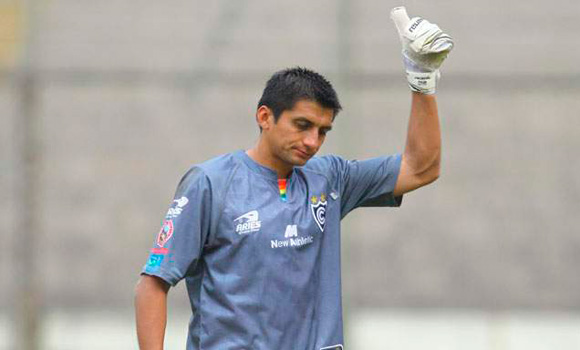
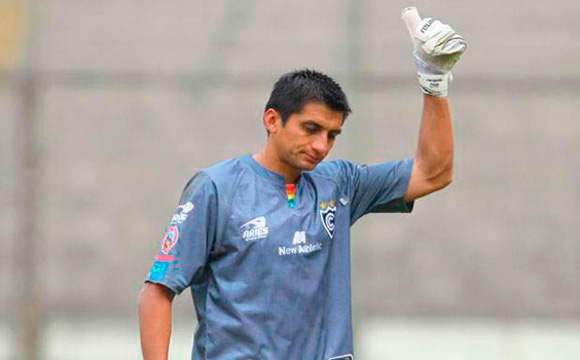
cambio de imagenes de slider

Changed region(s): [[0.2172, 0.0, 0.8069, 1.0]]

diff --git a/css/estilos.css b/css/estilos.css
@@ -1,2 +1,2 @@
 /* PICHLING REPRESENTACIONES */
-html,button,input,select,textarea{color:#222}h1,h2,h3,h4,h5,h6{margin:0;padding:0}a{text-decoration:none}body{margin:0!important;padding:0!important}::-moz-selection{background:#b3d4fc;text-shadow:none}::selection{background:#b3d4fc;text-shadow:none}hr{border:0;border-top:1px solid #ccc;display:block;height:1px;margin:1em 0;padding:0}img{vertical-align:middle}fieldset{border:0;margin:0;padding:0}textarea{resize:vertical}.chromeframe{margin:.2em 0;background:#ccc;color:#000;padding:.2em 0}.header-container{background:url("../imagenes/header-fondo.jpg") repeat-x}.main-containter{margin-bottom:15px}.footer-container{background:url("../imagenes/header-fondo.jpg") repeat-x;height:55px;padding-top:15px}body{background:url("../imagenes/body-fondo-sup.jpg") repeat-x,url("../imagenes/body-fondo.gif") repeat}.wrapper{width:990px;margin:0 auto}header{width:990px}header #header-izq{float:left;width:290px}header #header-izq h1{background:url("../imagenes/logo-fondo.png") no-repeat;float:left;height:187px;padding:18px 0 0 26px;width:261px}header #header-izq h1 a.title{background:url("../imagenes/logo.png") no-repeat;display:block;height:127px;margin:0!important;padding:0!important;text-indent:-10000em;width:237px}header #header-der{float:left;width:700px}header #header-der aside{height:90px;padding:30px 0 0 0;text-align:center}nav{height:70px;margin:0 0 15px 0}nav ul{margin:0;padding:0}nav a{border-right:1px solid #1F755A;color:#fff;display:block;float:left;font-family:"Homenaje",sans-serif;font-size:20px;padding:15px 30px;text-align:center;text-decoration:none}nav a:hover,nav a:visited{color:#fff}nav a:hover{text-decoration:underline}#main-slider{float:left}#main-slider #slider{float:left;margin:18px 0 0 10px;width:580px;height:360px;border:5px solid #fff}#main-slider #slider ul{margin:0;padding:0;list-style:none}#main-slider #slider-fondo{background:url("../imagenes/fondo-slider.png");float:left;height:17px;width:600px}#main-slider #slider-oficina{height:360px;float:left;width:350px}#main-contenido{float:left;width:100%}#main-cont-bienvenido{border-bottom:1px solid #fff;float:left;margin:0 25px;width:940px}#main-cont-bienvenido h2{color:#900;font-family:'Exo',sans-serif;font-size:40px;letter-spacing:2px}#main-cont-bienvenido p{font-size:16px;line-height:150%}.mci-interior{padding-top:34px!important}#main-cont-icons{float:left;padding-top:15px;width:100%}#main-cont-icons #icons-lista{background:url("../imagenes/slider-fondo.png");background-position:bottom;background-repeat:no-repeat;float:left;padding-bottom:40px;width:100%}#main-cont-icons #icons-lista ul{display:inline-block;float:left;list-style:none;margin:0;padding:0;text-align:center;width:100%}#main-cont-icons #icons-lista ul li{border-right:1px solid #999;display:inline-block;height:170px;padding:10px 0;text-align:center;width:260px}#main-cont-icons #icons-lista ul li a{background-image:url("../imagenes/iconos.png");background-repeat:no-repeat;color:#900;float:left;font-family:'Exo',sans-serif;font-size:28px;font-weight:700;letter-spacing:2px;margin-left:18px;padding-top:135px;width:220px}#main-cont-icons #icons-lista ul li a#enl-lista-jugadores{background-position:0 0}#main-cont-icons #icons-lista ul li a#enl-lista-jugadores:hover,#main-cont-icons #icons-lista ul li a#enl-lista-jugadores.active{background-position:-240px 0}#main-cont-icons #icons-lista ul li a#enl-lista-entrevista{background-position:0 -180px}#main-cont-icons #icons-lista ul li a#enl-lista-entrevista:hover,#main-cont-icons #icons-lista ul li a#enl-lista-entrevista.active{background-position:-240px -180px}#main-cont-icons #icons-lista ul li a#enl-lista-galeria{background-position:0 -360px}#main-cont-icons #icons-lista ul li a#enl-lista-galeria:hover,#main-cont-icons #icons-lista ul li a#enl-lista-galeria.active{background-position:-240px -360px}#main-cont-icons #icons-lista ul li.last{border:0}#main-cont-icons #icons-contenido{float:left;position:relative;width:100%}#main-cont-icons #icons-contenido #cerrar-contenido{position:absolute;top:-28px}#main-cont-icons #icons-contenido #cerrar-contenido img{border:0}#main-cont-icons #icons-contenido #lista-entrevista{width:80%}#main-cont-icons #icons-contenido #lista-jugadores{width:85%}#main-cont-icons #icons-contenido .ic-contenido{display:none;text-align:justify;margin:0 auto;width:100%;position:relative}#main-cont-icons #icons-contenido .ic-contenido h2{color:#900;font-family:'Exo',sans-serif;font-size:36px}#main-cont-icons #icons-contenido .ic-contenido img{border:5px solid #666}#main-cont-icons #icons-contenido .ic-contenido aside{float:left;width:210px}#main-cont-icons #icons-contenido .ic-contenido aside h3{font-size:16px}#main-cont-icons #icons-contenido .ic-contenido aside ul{list-style:none;margin:0;padding:0}#main-cont-icons #icons-contenido .ic-contenido aside ul li{background:url("../imagenes/icon-lista.png") no-repeat;background-position:0 5px;list-style:none;margin:0;padding:3px 0}#main-cont-icons #icons-contenido .ic-contenido aside ul li a{font-size:14px;padding-left:20px}#main-news{float:left;margin:0 10px;padding-top:15px;width:970px}#main-news #mnew-video{float:left;border-right:1px solid #ccc;padding-right:19px;width:455px}#main-news #mnew-noticias{float:left;border-left:1px solid #ccc;padding-left:19px;width:475px}#main-news #mnew-noticias article{float:left;padding:15px 0;width:475px}#main-news #mnew-noticias article img{float:left;margin:0 10px 0 0}#main-news #mnew-noticias article div{float:left;width:340px}#main-news #mnew-noticias article div h3{font-size:16px}#main-news #mnew-noticias article div p{font-size:12px}#main-news #mnew-noticias article:first-of-type{border-bottom:2px dotted #B1B1B1}#news{float:left;margin:10px 0;width:100%}#news .info-jugador-nwizq{width:300px!important}#news .info-jugador-nwizq table.jugador-datos{font-size:14px;width:100%}#news .info-jugador-nwizq table.jugador-datos tr td{padding:5px 0}#news .info-jugador-nwizq table.jugador-datos tr td.titulo{font-weight:700}#news .info-jugador-nwder{width:660px!important}#news .info-jugador-nwder .menu{list-style:none;padding:0;margin:0;float:left;width:100%}#news .info-jugador-nwder .menu ul li{list-style:none;display:block;float:left;padding:0 10px;border-left:1px solid black}#news .info-jugador-nwder .menu ul li a{color:#095495}#news .info-jugador-nwder .menu ul li a.active{color:#000;font-weight:700}#news .info-jugador-nwder .menu ul li:first-child{border-left:0}#news .info-jugador-nwder .datos{float:left;width:100%;padding:10px 0 0 0}#news .info-jugador-nwder .datos .galeria{float:left;padding:10px 0 0 30px;width:100%}#news .info-jugador-nwder .datos .galeria .slider{width:190px;height:205px;float:left;margin:0 0 10px 10px;overflow:hidden}#news .info-jugador-nwder .datos .galeria .clear{clear:left}#news .info-jugador-nwder .datos .galeria .peKenBurns{width:190px;height:205px}#news .info-jugador-nwder .datos .galeria .noShadow .peKenBurns{height:205px}#news .info-jugador-nwder .datos .galeria .peKenBurns .peKb_slides{padding:8px;-moz-border-radius:5px;-webkit-border-radius:5px;border-radius:5px}#news .info-jugador-nwder .datos .galeria .peKenBurns .peKb_slides .peKb_caption h1{font-family:Arial;font-size:11px;color:#FEFEFE}#news .info-jugador-nwder .datos .galeria .peKenBurns .peKb_slides .peKb_caption .peKb_real{padding:10px}#news .info-jugador-nwder .datos .galeria .peKenBurns .peKb_slides .peKb_caption{margin:0 5px 5px 5px}#news .info-jugador-nwder .datos .galeria .peKenBurns .peKb_slides .peKb_caption .peKb_background{background-color:#202020}#news .info-jugador-nwder .datos .posicion{text-align:center;padding-top:10px}#news .info-jugador-nwder .datos .videos{text-align:center;padding-top:10px}#news .info-jugador-nwder .datos .videos .items{padding:0 0 0 20px}#news .info-jugador-nwder .datos .videos .items article{float:left;position:relative}#news .info-jugador-nwder .datos .videos .items article a{display:block;width:125px;padding:15px 10px}#news .info-jugador-nwder .datos .videos .items article a img.play{position:absolute;left:55px;top:30px}#news .info-jugador-nwder .datos .videos .items article a.active{background-color:#fff}#news #nwizq{float:left;margin:0 10px 0 0;width:620px}#news #nwizq h2{color:#095495;font-size:24px;font-family:'Exo',sans-serif;line-height:120%}#news #nwizq p{font-size:14px;line-height:150%}#news #nwizq #nwizq-img{float:left;width:100%;text-align:center;margin:0 0 10px 0;padding:10px 0;border-bottom:1px solid #999;border-top:1px solid #999}#news #nwizq .addthis_toolbox{float:left;width:100%}#news #nwder{float:left;margin:0 0 0 10px;width:350px}#news #nwder aside{border-bottom:1px dotted #666;margin-bottom:10px;padding:0 0 10px 0;float:left;width:100%}#news #nwder aside h3{color:#095495;font-size:24px;font-family:'Exo',sans-serif;line-height:120%}#news #nwder aside ul{list-style:none;margin:0;padding:0}#news #nwder aside ul li{margin:0 0 10px 0;line-height:150%;font-size:12px;background-image:url("/imagenes/icon-arrow.png");background-repeat:no-repeat;padding:0 0 0 15px}#news #nwder aside.publicidad{padding:0 7px 10px 7px}.footer-container{font-weight:700;font-size:14px;color:#fff;line-height:160%}.footer-container p{margin:0}.borde-redondo10{border-radius:10px;-moz-border-radius:10px;-webkit-border-radius:10px}.ir{background-color:transparent;border:0;overflow:hidden;*text-indent:-9999px}.ir:before{content:"";display:block;width:0;height:100%}.hidden{display:none!important;visibility:hidden}.visuallyhidden{border:0;clip:rect(0);height:1px;margin:-1px;overflow:hidden;padding:0;position:absolute;width:1px}.visuallyhidden.focusable:active,.visuallyhidden.focusable:focus{clip:auto;height:auto;margin:0;overflow:visible;position:static;width:auto}.invisible{visibility:hidden}.clearfix:before,.clearfix:after{content:" ";display:table}.clearfix:after{clear:both}.clearfix{*zoom:1}.ocultar{display:none}
+html,button,input,select,textarea{color:#222}h1,h2,h3,h4,h5,h6{margin:0;padding:0}a{text-decoration:none}body{margin:0!important;padding:0!important}::-moz-selection{background:#b3d4fc;text-shadow:none}::selection{background:#b3d4fc;text-shadow:none}hr{border:0;border-top:1px solid #ccc;display:block;height:1px;margin:1em 0;padding:0}img{vertical-align:middle}fieldset{border:0;margin:0;padding:0}textarea{resize:vertical}.chromeframe{margin:.2em 0;background:#ccc;color:#000;padding:.2em 0}.header-container{background:url("../imagenes/header-fondo.jpg") repeat-x}.main-containter{margin-bottom:15px}.footer-container{background:url("../imagenes/header-fondo.jpg") repeat-x;height:55px;padding-top:15px}body{background:url("../imagenes/body-fondo-sup.jpg") repeat-x,url("../imagenes/body-fondo.gif") repeat}.wrapper{width:990px;margin:0 auto}header{width:990px}header #header-izq{float:left;width:290px}header #header-izq h1{background:url("../imagenes/logo-fondo.png") no-repeat;float:left;height:187px;padding:18px 0 0 26px;width:261px}header #header-izq h1 a.title{background:url("../imagenes/logo.png") no-repeat;display:block;height:127px;margin:0!important;padding:0!important;text-indent:-10000em;width:237px}header #header-der{float:left;width:700px}header #header-der aside{height:90px;padding:30px 0 0 0;text-align:center}nav{height:70px;margin:0 0 15px 0}nav ul{margin:0;padding:0}nav a{border-right:1px solid #1F755A;color:#fff;display:block;float:left;font-family:"Homenaje",sans-serif;font-size:20px;padding:15px 30px;text-align:center;text-decoration:none}nav a:hover,nav a:visited{color:#fff}nav a:hover{text-decoration:underline}#main-slider{float:left}#main-slider #bannerRotatorParent_88964{margin-right:10px}#main-slider #slider{float:left;margin:18px 0 0 10px;width:580px;height:360px}#main-slider #slider ul{margin:0;padding:0;list-style:none}#main-slider #slider-fondo{background:url("../imagenes/fondo-slider.png");float:left;height:17px;width:600px}#main-slider #slider-oficina{height:360px;float:left;width:350px}#main-contenido{float:left;width:100%}#main-cont-bienvenido{border-bottom:1px solid #fff;float:left;margin:0 25px;width:940px}#main-cont-bienvenido h2{color:#900;font-family:'Exo',sans-serif;font-size:40px;letter-spacing:2px}#main-cont-bienvenido p{font-size:16px;line-height:150%}.mci-interior{padding-top:34px!important}#main-cont-icons{float:left;padding-top:15px;width:100%}#main-cont-icons #icons-lista{background:url("../imagenes/slider-fondo.png");background-position:bottom;background-repeat:no-repeat;float:left;padding-bottom:40px;width:100%}#main-cont-icons #icons-lista ul{display:inline-block;float:left;list-style:none;margin:0;padding:0;text-align:center;width:100%}#main-cont-icons #icons-lista ul li{border-right:1px solid #999;display:inline-block;height:170px;padding:10px 0;text-align:center;width:260px}#main-cont-icons #icons-lista ul li a{background-image:url("../imagenes/iconos.png");background-repeat:no-repeat;color:#900;float:left;font-family:'Exo',sans-serif;font-size:28px;font-weight:700;letter-spacing:2px;margin-left:18px;padding-top:135px;width:220px}#main-cont-icons #icons-lista ul li a#enl-lista-jugadores{background-position:0 0}#main-cont-icons #icons-lista ul li a#enl-lista-jugadores:hover,#main-cont-icons #icons-lista ul li a#enl-lista-jugadores.active{background-position:-240px 0}#main-cont-icons #icons-lista ul li a#enl-lista-entrevista{background-position:0 -180px}#main-cont-icons #icons-lista ul li a#enl-lista-entrevista:hover,#main-cont-icons #icons-lista ul li a#enl-lista-entrevista.active{background-position:-240px -180px}#main-cont-icons #icons-lista ul li a#enl-lista-galeria{background-position:0 -360px}#main-cont-icons #icons-lista ul li a#enl-lista-galeria:hover,#main-cont-icons #icons-lista ul li a#enl-lista-galeria.active{background-position:-240px -360px}#main-cont-icons #icons-lista ul li.last{border:0}#main-cont-icons #icons-contenido{float:left;position:relative;width:100%}#main-cont-icons #icons-contenido #cerrar-contenido{position:absolute;top:-28px}#main-cont-icons #icons-contenido #cerrar-contenido img{border:0}#main-cont-icons #icons-contenido #lista-entrevista{width:80%}#main-cont-icons #icons-contenido #lista-jugadores{width:85%}#main-cont-icons #icons-contenido .ic-contenido{display:none;text-align:justify;margin:0 auto;width:100%;position:relative}#main-cont-icons #icons-contenido .ic-contenido h2{color:#900;font-family:'Exo',sans-serif;font-size:36px}#main-cont-icons #icons-contenido .ic-contenido img{border:5px solid #666}#main-cont-icons #icons-contenido .ic-contenido aside{float:left;width:210px}#main-cont-icons #icons-contenido .ic-contenido aside h3{font-size:16px}#main-cont-icons #icons-contenido .ic-contenido aside ul{list-style:none;margin:0;padding:0}#main-cont-icons #icons-contenido .ic-contenido aside ul li{background:url("../imagenes/icon-lista.png") no-repeat;background-position:0 5px;list-style:none;margin:0;padding:3px 0}#main-cont-icons #icons-contenido .ic-contenido aside ul li a{font-size:14px;padding-left:20px}#main-news{float:left;margin:0 10px;padding-top:15px;width:970px}#main-news #mnew-video{float:left;border-right:1px solid #ccc;padding-right:19px;width:455px}#main-news #mnew-noticias{float:left;border-left:1px solid #ccc;padding-left:19px;width:475px}#main-news #mnew-noticias article{float:left;padding:15px 0;width:475px}#main-news #mnew-noticias article img{float:left;margin:0 10px 0 0}#main-news #mnew-noticias article div{float:left;width:340px}#main-news #mnew-noticias article div h3{font-size:16px}#main-news #mnew-noticias article div p{font-size:12px}#main-news #mnew-noticias article:first-of-type{border-bottom:2px dotted #B1B1B1}#news{float:left;margin:10px 0;width:100%}#news .info-jugador-nwizq{width:300px!important}#news .info-jugador-nwizq table.jugador-datos{font-size:14px;width:100%}#news .info-jugador-nwizq table.jugador-datos tr td{padding:5px 0}#news .info-jugador-nwizq table.jugador-datos tr td.titulo{font-weight:700}#news .info-jugador-nwder{width:660px!important}#news .info-jugador-nwder .menu{list-style:none;padding:0;margin:0;float:left;width:100%}#news .info-jugador-nwder .menu ul li{list-style:none;display:block;float:left;padding:0 10px;border-left:1px solid black}#news .info-jugador-nwder .menu ul li a{color:#095495}#news .info-jugador-nwder .menu ul li a.active{color:#000;font-weight:700}#news .info-jugador-nwder .menu ul li:first-child{border-left:0}#news .info-jugador-nwder .datos{float:left;width:100%;padding:10px 0 0 0}#news .info-jugador-nwder .datos .galeria{float:left;padding:10px 0 0 30px;width:100%}#news .info-jugador-nwder .datos .galeria .slider{width:190px;height:205px;float:left;margin:0 0 10px 10px;overflow:hidden}#news .info-jugador-nwder .datos .galeria .clear{clear:left}#news .info-jugador-nwder .datos .galeria .peKenBurns{width:190px;height:205px}#news .info-jugador-nwder .datos .galeria .noShadow .peKenBurns{height:205px}#news .info-jugador-nwder .datos .galeria .peKenBurns .peKb_slides{padding:8px;-moz-border-radius:5px;-webkit-border-radius:5px;border-radius:5px}#news .info-jugador-nwder .datos .galeria .peKenBurns .peKb_slides .peKb_caption h1{font-family:Arial;font-size:11px;color:#FEFEFE}#news .info-jugador-nwder .datos .galeria .peKenBurns .peKb_slides .peKb_caption .peKb_real{padding:10px}#news .info-jugador-nwder .datos .galeria .peKenBurns .peKb_slides .peKb_caption{margin:0 5px 5px 5px}#news .info-jugador-nwder .datos .galeria .peKenBurns .peKb_slides .peKb_caption .peKb_background{background-color:#202020}#news .info-jugador-nwder .datos .posicion{text-align:center;padding-top:10px}#news .info-jugador-nwder .datos .videos{text-align:center;padding-top:10px}#news .info-jugador-nwder .datos .videos .items{padding:0 0 0 20px}#news .info-jugador-nwder .datos .videos .items article{float:left;position:relative}#news .info-jugador-nwder .datos .videos .items article a{display:block;width:125px;padding:15px 10px}#news .info-jugador-nwder .datos .videos .items article a img.play{position:absolute;left:55px;top:30px}#news .info-jugador-nwder .datos .videos .items article a.active{background-color:#fff}#news #nwizq{float:left;margin:0 10px 0 0;width:620px}#news #nwizq h2{color:#095495;font-size:24px;font-family:'Exo',sans-serif;line-height:120%}#news #nwizq p{font-size:14px;line-height:150%}#news #nwizq #nwizq-img{float:left;width:100%;text-align:center;margin:0 0 10px 0;padding:10px 0;border-bottom:1px solid #999;border-top:1px solid #999}#news #nwizq .addthis_toolbox{float:left;width:100%}#news #nwder{float:left;margin:0 0 0 10px;width:350px}#news #nwder aside{border-bottom:1px dotted #666;margin-bottom:10px;padding:0 0 10px 0;float:left;width:100%}#news #nwder aside h3{color:#095495;font-size:24px;font-family:'Exo',sans-serif;line-height:120%}#news #nwder aside ul{list-style:none;margin:0;padding:0}#news #nwder aside ul li{margin:0 0 10px 0;line-height:150%;font-size:12px;background-image:url("/imagenes/icon-arrow.png");background-repeat:no-repeat;padding:0 0 0 15px}#news #nwder aside.publicidad{padding:0 7px 10px 7px}.footer-container{font-weight:700;font-size:14px;color:#fff;line-height:160%}.footer-container p{margin:0}.borde-redondo10{border-radius:10px;-moz-border-radius:10px;-webkit-border-radius:10px}.ir{background-color:transparent;border:0;overflow:hidden;*text-indent:-9999px}.ir:before{content:"";display:block;width:0;height:100%}.hidden{display:none!important;visibility:hidden}.visuallyhidden{border:0;clip:rect(0);height:1px;margin:-1px;overflow:hidden;padding:0;position:absolute;width:1px}.visuallyhidden.focusable:active,.visuallyhidden.focusable:focus{clip:auto;height:auto;margin:0;overflow:visible;position:static;width:auto}.invisible{visibility:hidden}.clearfix:before,.clearfix:after{content:" ";display:table}.clearfix:after{clear:both}.clearfix{*zoom:1}.ocultar{display:none}

diff --git a/less/estilos.less b/less/estilos.less
@@ -197,12 +197,15 @@ nav{
 #main-slider{
 	float: left;
 
+	#bannerRotatorParent_88964{
+		margin-right: 10px;
+	}
+
 	#slider{
 		float: left;
 		margin: 18px 0 0 10px;
 		width: 580px;
 		height: 360px;
-		border:5px solid #fff;
 
 		ul{
 			margin: 0;
